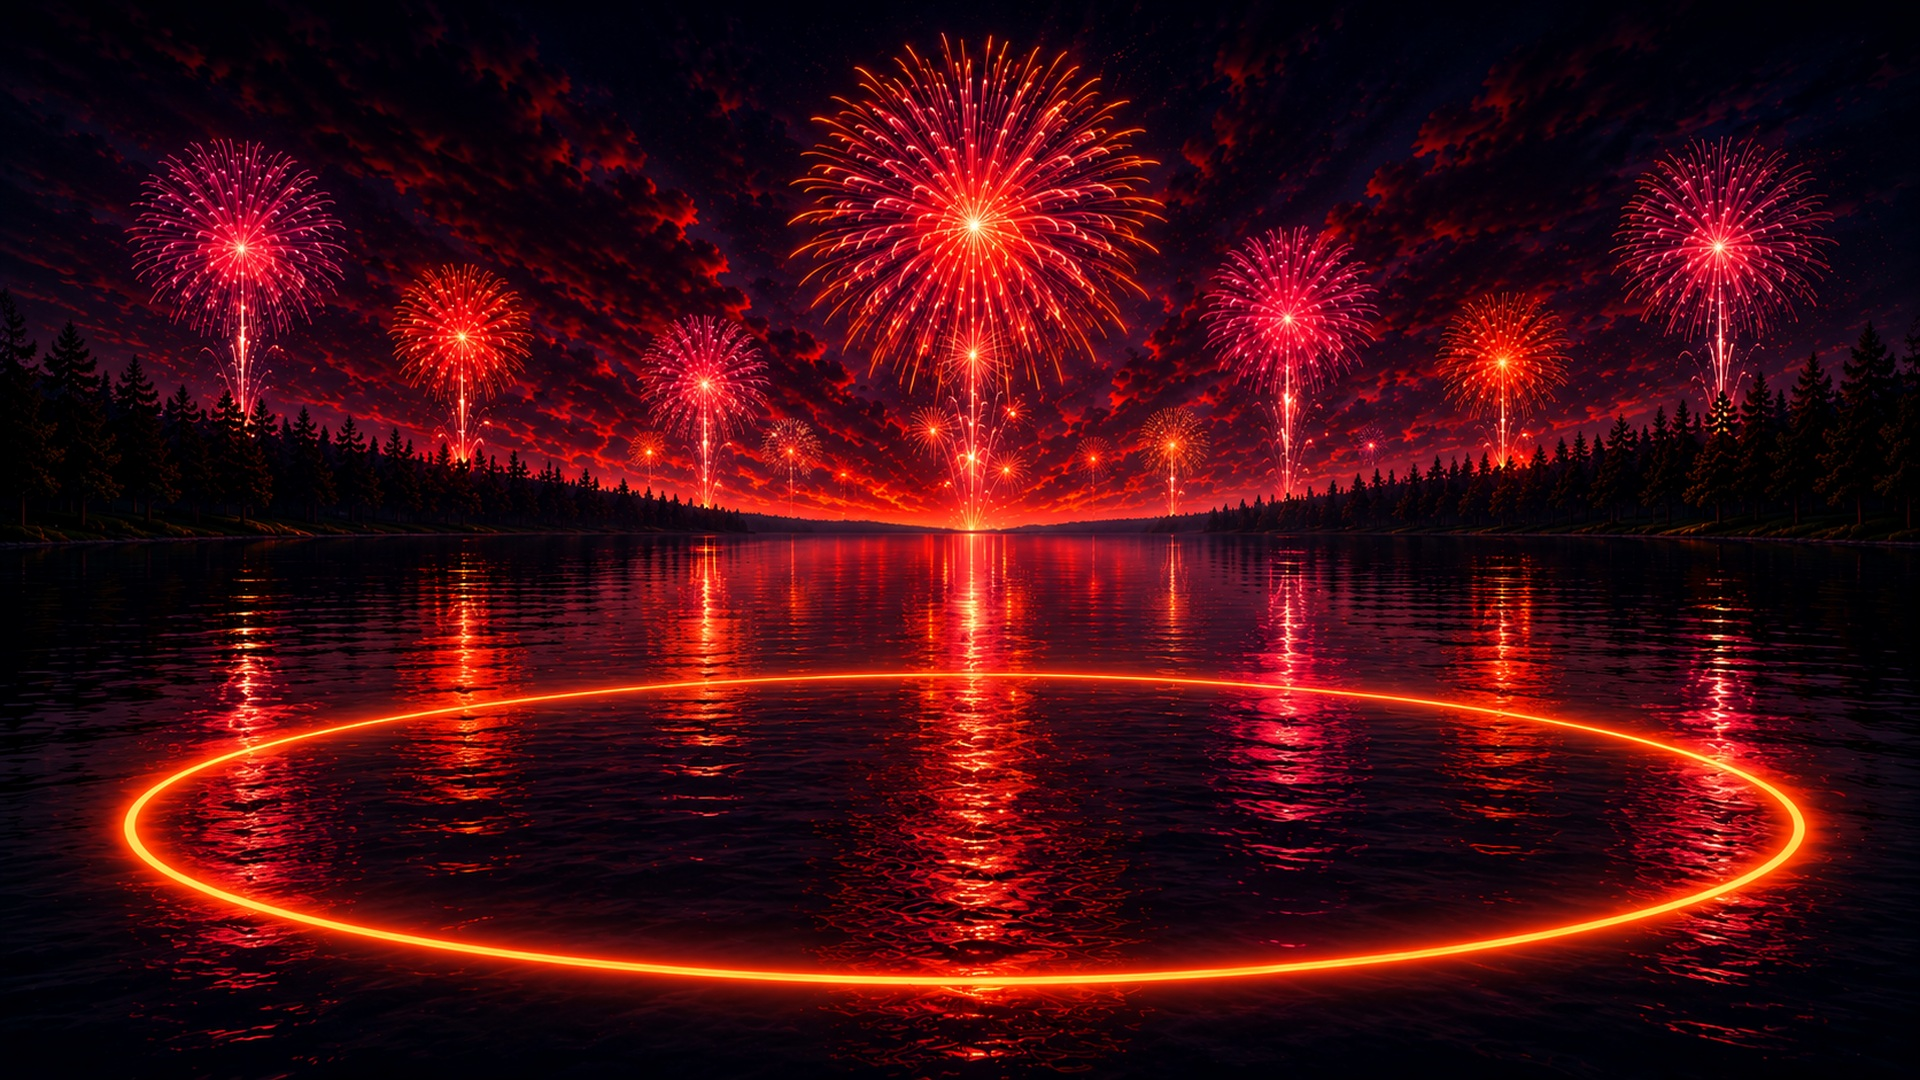
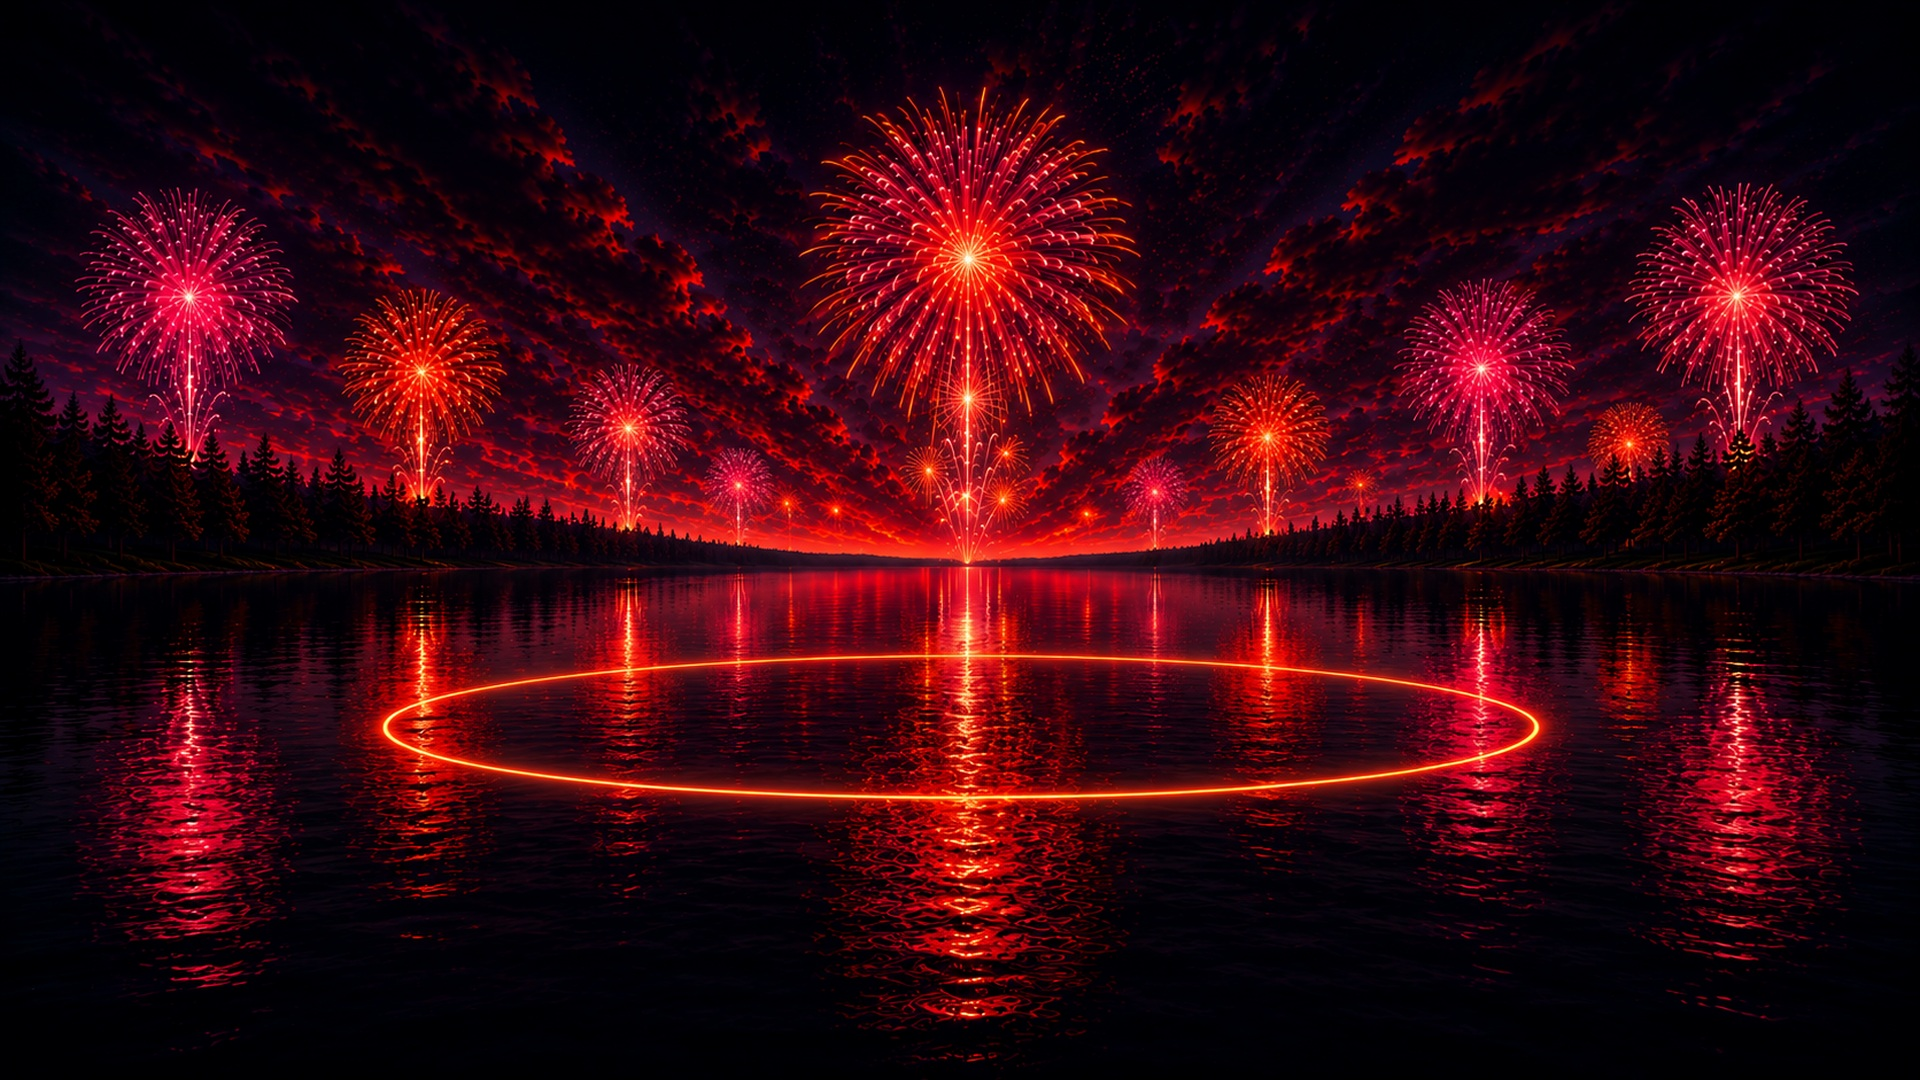
Add files via upload

diff --git a/index.html b/index.html
@@ -2314,9 +2314,48 @@ textarea{
   background-image:none !important;
 }
 
+
+/* =========================
+   V77 BACKGROUND SWAP
+   Built from V76.
+   Changed only:
+   - background image replaced with the newly uploaded fireworks/water/ring image.
+========================= */
+
+:root{
+  --bg-d:url("assets/background-live.jpg") !important;
+  --bg-m:url("assets/background-live.jpg") !important;
+}
+
+.page{
+  background:var(--bg-d) center center / cover no-repeat !important;
+}
+
+.page::before{
+  background:
+    linear-gradient(180deg,rgba(0,0,0,.24) 0,rgba(0,0,0,.04) 18%,rgba(0,0,0,0) 52%,rgba(0,0,0,.60) 100%),
+    radial-gradient(circle at 50% 56%,rgba(255,90,38,.018),transparent 48%) !important;
+}
+
+/* Guardrail: no older/test background layers. */
+.scene,
+.hero,
+.stage,
+.main-stage,
+#stage{
+  background-image:none !important;
+}
+
+.scene::before,
+.hero::before,
+.stage::before,
+.main-stage::before{
+  background-image:none !important;
+}
+
 </style>
 </head>
-<body data-build="v76-uploaded-background">
+<body data-build="v77-uploaded-background-final-swap">
 <main class="page">
   <header class="header">
     <a class="logo" href="#" data-go="videos" aria-label="Discount Fireworks Outlet home">
@@ -2770,7 +2809,7 @@ setInterval(countdown, 1000);
 </script>
 
 <div class="calibration-panel" aria-hidden="true">
-  <b>V76 HIDDEN CALIBRATION</b>
+  <b>V77 HIDDEN CALIBRATION</b>
   <div>Press <strong>D</strong> to hide/show pins.</div>
   <div style="margin-top:8px;">Edit <code>SLOT_CONFIG</code> near the top of the script.</div>
   <code>-2 far-left
